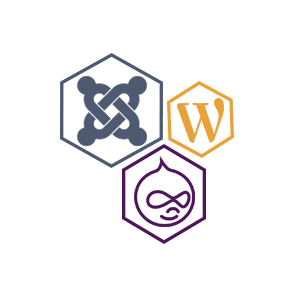
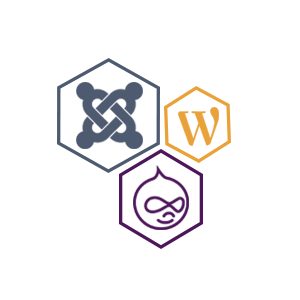
done changing skills img

Changed region(s): [[0.18, 0.18, 0.78, 0.84]]

diff --git a/index.html b/index.html
@@ -39,7 +39,7 @@
             <div class="skills">
                 <img src="img/adobe.png">
                 <img src="img/cms.png">
-                <img src="img/swish.png">
+                <img src="img/swish2.png">
                 <img src="img/HTMLCSS2.png">
             </div>
         </div>
